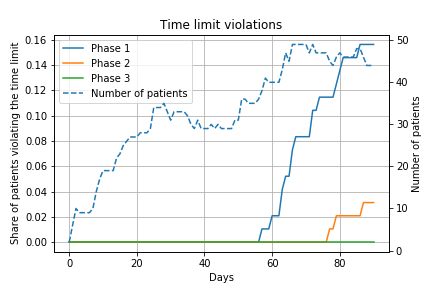
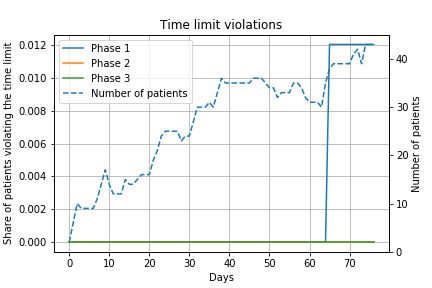
hei

diff --git a/src/model_parameters.py b/src/model_parameters.py
@@ -166,22 +166,23 @@ t1,m,m,m])
 #L_rt = np.concatenate((np.full((16,5),1000), np.full((16,2),0)), axis=1)
 
 L_rt = np.array([
-        [40,40,40,40,40,0,0],#Physician0 - Begrensende
+        [45,45,45,45,45,0,0],#Physician0 - Begrensende
         [5,5,5,5,5,0,0],#Gynecologist1 - Begrensende
         [4,4,4,4,4,0,0],#Radiologist2
         [4,4,4,4,4,0,0],#Radiographer3
         [4,4,4,4,4,0,0],#Pathologist4 - Begrensende
         [0,0,0,0,0,0,0],#Surgeon5
-        [40,40,40,40,40,0,0],#Nurse6 - begrensende
+        [45,45,45,45,45,0,0],#Nurse6 - begrensende
         [2,2,2,2,2,0,0],#CT scanner7
         [2,2,2,2,2,0,0], #MRI scanner8
-        [8,8,8,8,8,0,0],#Operating room9
+        [16,16,16,16,16,0,0],#Operating room9
         [2,2,2,2,2,0,0], #laboratory(biopsy)10
         [4,4,4,4,4,0,0], #outpatient clinic11
         [0,0,0,0,0,0,0], #Bed, not used in model12
         [15,15,15,15,15,0,0], # Day unit13
         [3,3,3,3,3,0,0], # Radiotherapy laboratory14
         [0,0,0,0,0,0,0]]) # Meeting room15
+
 
 resource_dict={
 ###Staff

diff --git a/src/simulation.py b/src/simulation.py
@@ -1144,12 +1144,12 @@ def main():
     arr = [q0,q1,q2,q3,q4,q5,q6,q7,q8,q9,q10,q11,q12,q13,q14,q15,q16,q17,q18,q19,q20,q21,q22,q23,q24,q25,q26,q27,q28,q29,q30,q31,q32,q33,q34,q35,q36,q37,q38,q39]
 
     #Optimization param
-    weeks = 1
+    weeks = 2
     G = None
     E = None
     M = 80
     N = 80#int(np.round(M*3/5))
-    shift = 5
+    shift = 6
 
     #Simulation param
     simulation_horizon = 365
